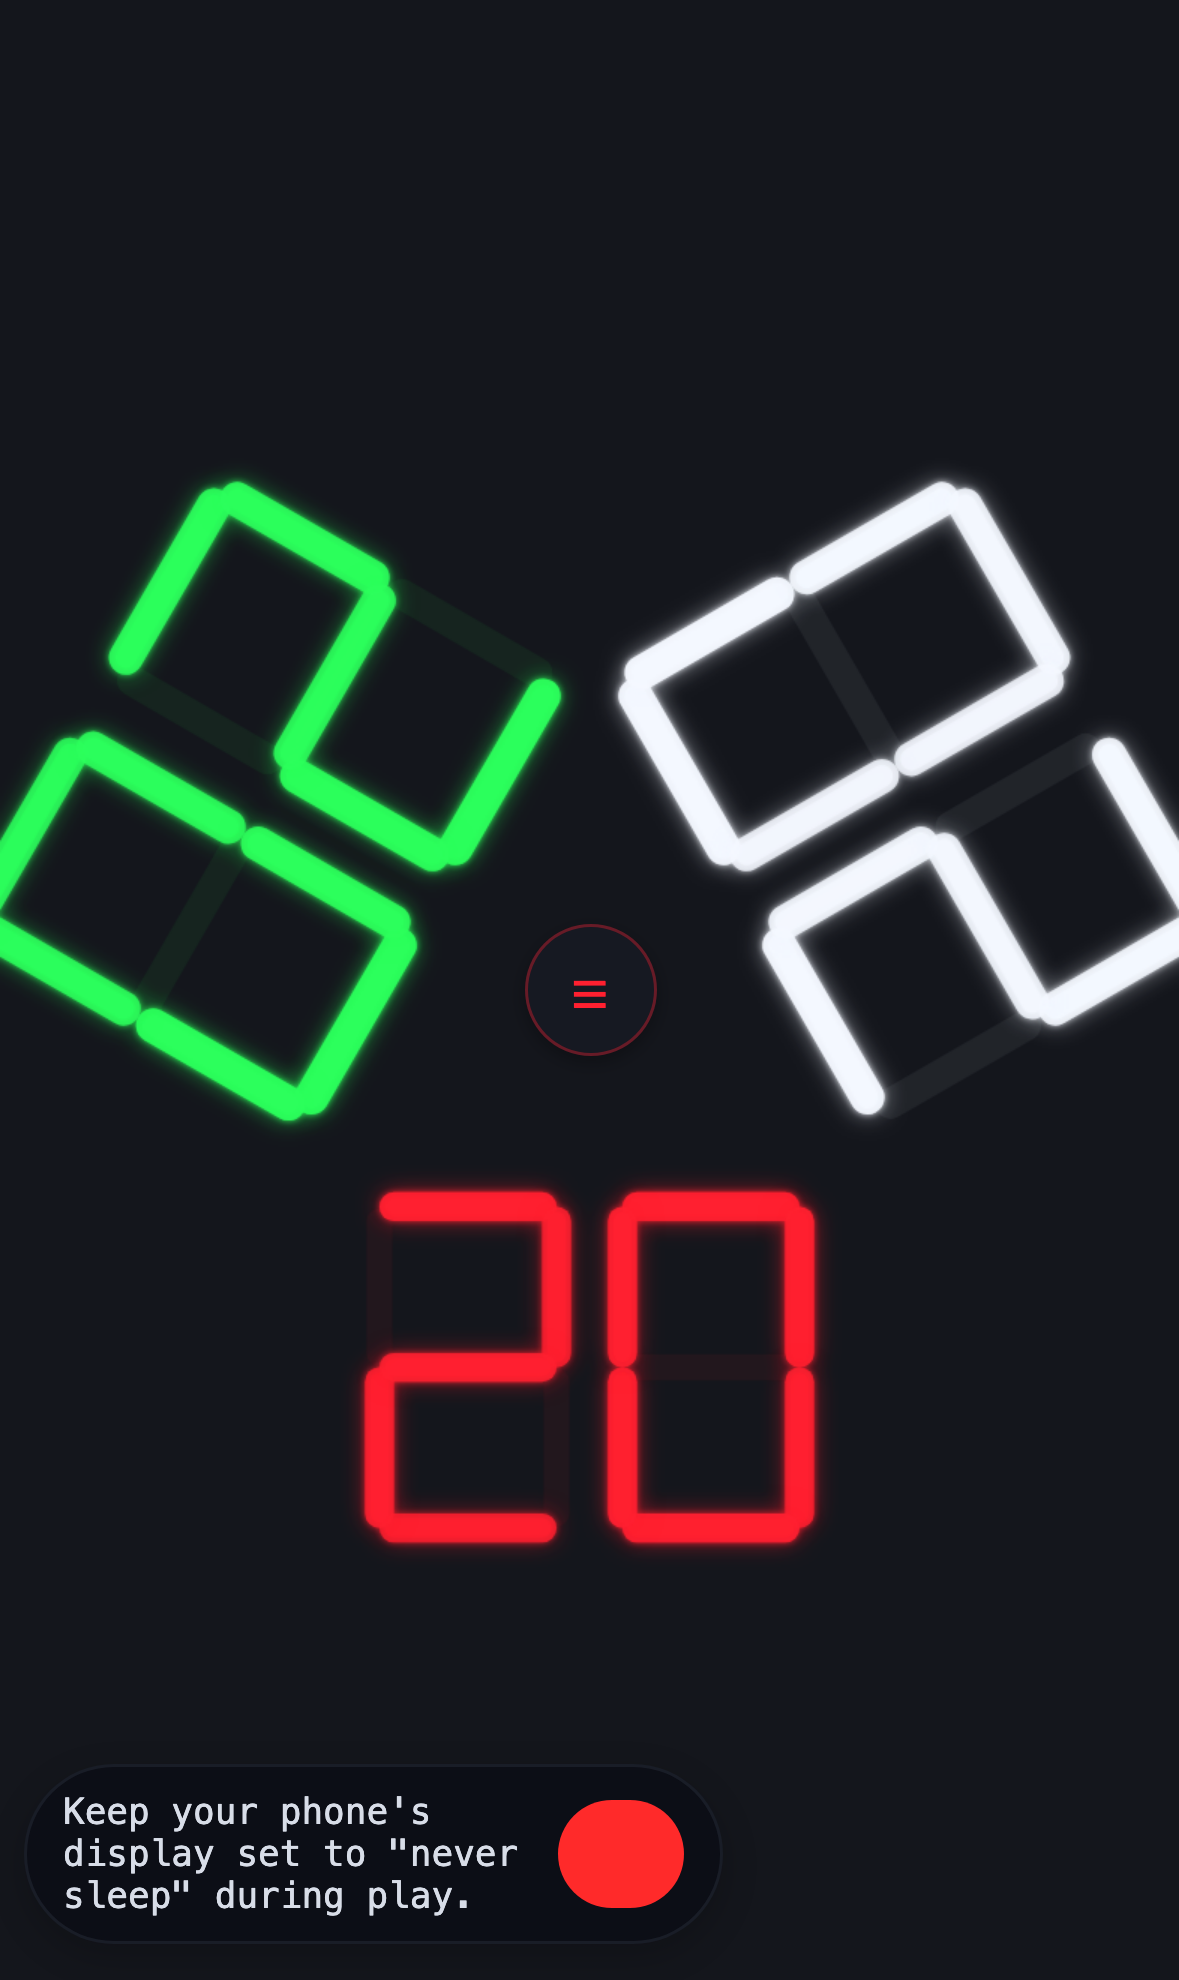
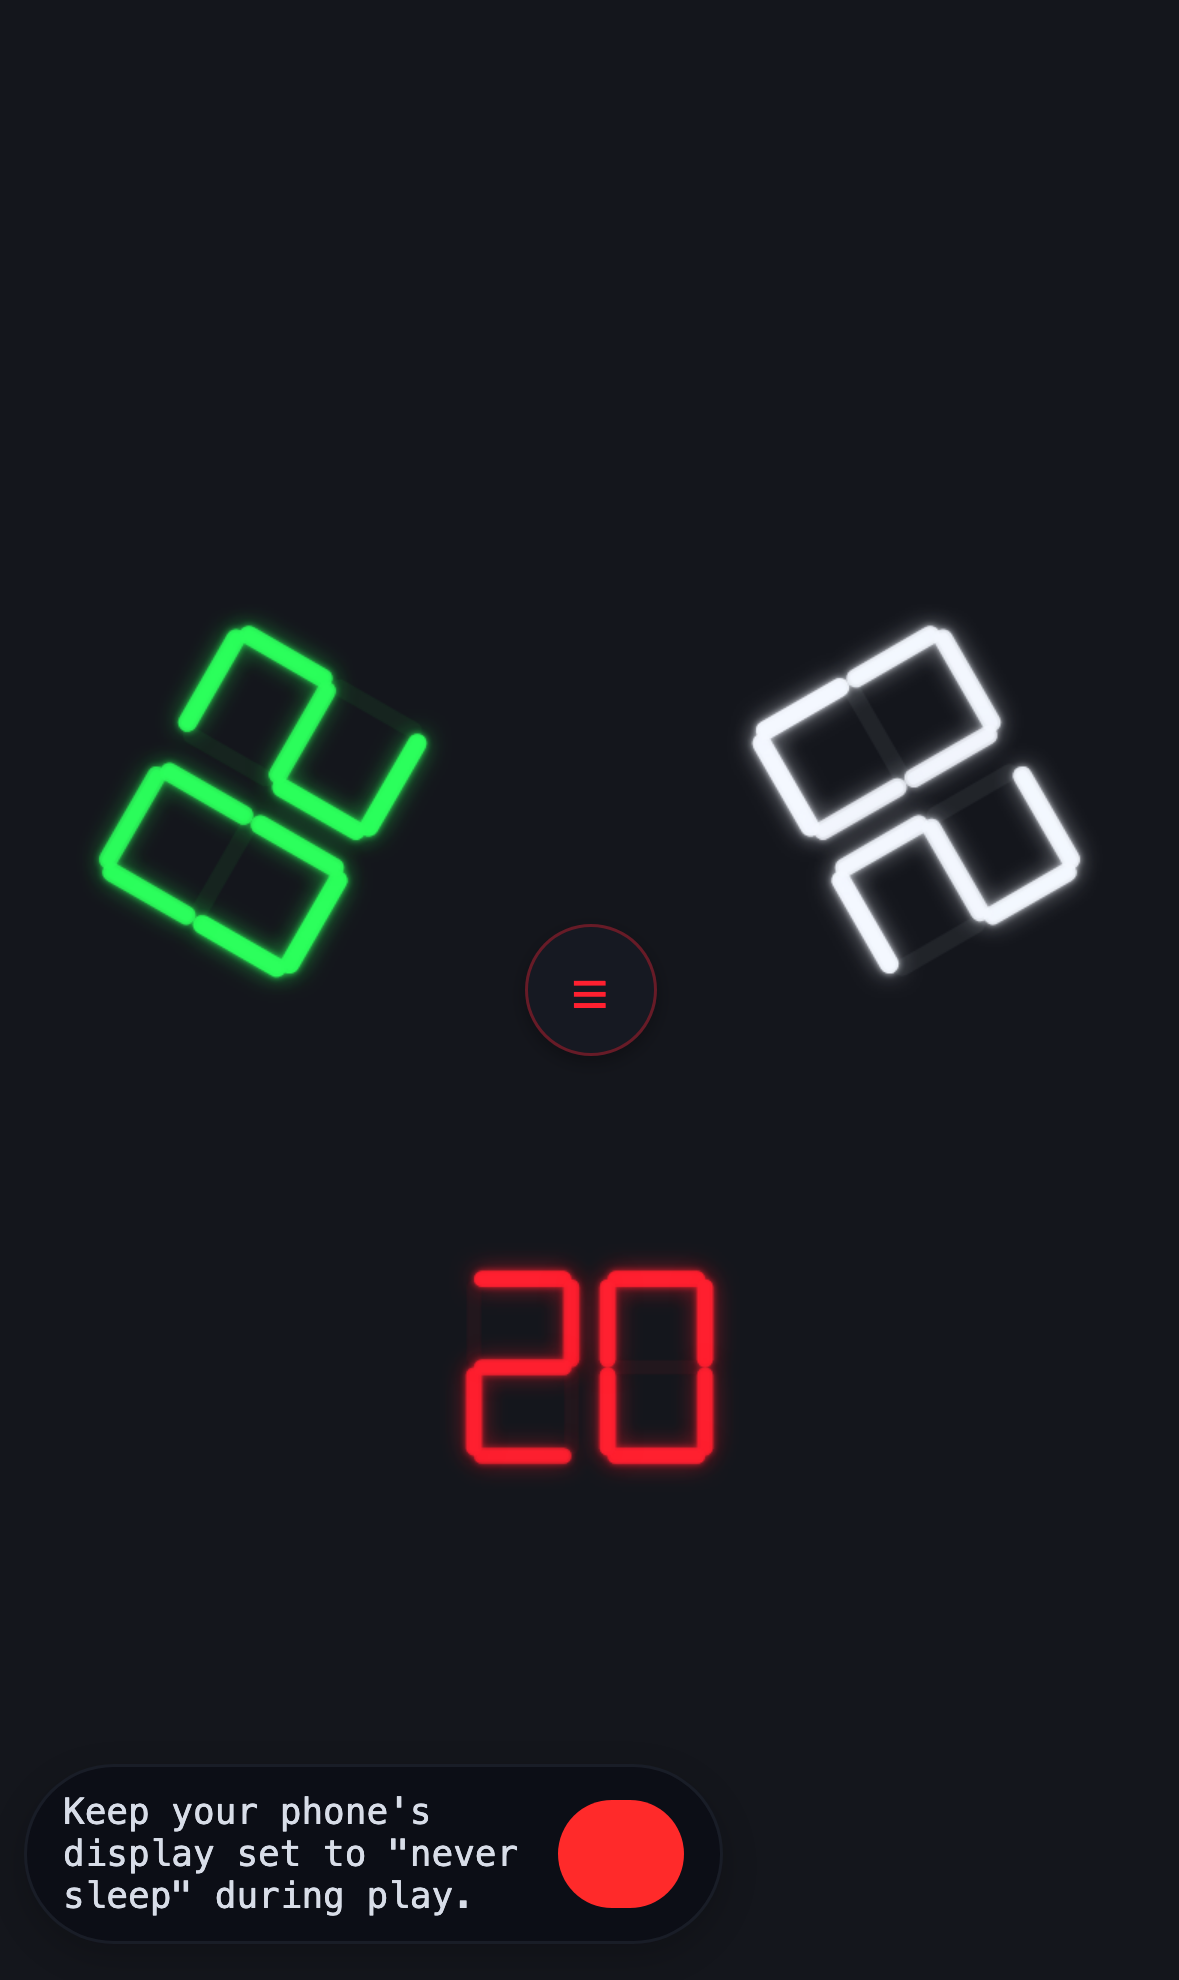
particles/7seg: SW network-first navigation + smaller 7-Seg digits
Two fixes:

1. SW cache-busting hole — navigation requests were CACHE-FIRST, so a
   stale browser kept being handed the old HTML even when the server
   had a fresh build with a new token. Switched navigations to
   NETWORK-FIRST with a 2-second timeout fallback to the cached
   document. Online clients always see the freshest HTML (cache
   refreshed in the background); offline / slow-network still gets the
   cached shell so the PWA boots in airplane mode. Cache-busted
   ?v=<token> assets stay cache-first via path 2 since the URL itself
   already changes per build — the navigation hole was the real
   source of staleness Gerald hit.

2. 7-Seg digits were too big — added DEFAULTS.digitScale (0.55)
   applied after the bbox-fit pass. Digits now sit smaller inside the
   available bbox, leaving room for the CRT bloom/halo without
   dominating the panel.

Verified Playwright iPhone-14-Pro: digits clearly smaller; zero
console errors.

Changed region(s): [[0.5191, 0.2157, 1.0, 0.5854], [0.0, 0.2157, 0.4885, 0.5854], [0.2748, 0.5854, 0.7023, 0.801]]

diff --git a/sw.js b/sw.js
@@ -1,4 +1,4 @@
-const CB_TOKEN = "47dc7fda";
+const CB_TOKEN = "01771b30";
 const CACHE_NAME = `lifecounter-${CB_TOKEN}`;
 
 const BADGE_CELLS = [0, 1, 2].map(i =>
@@ -82,20 +82,43 @@ self.addEventListener("fetch", (event) => {
   if (req.method !== "GET") return;
 
   event.respondWith((async () => {
-    // 1. Exact cache hit — fastest path, preserves cache-busting semantics
-    //    (different ?v= = different URL = different cache entry).
+    // 1. Navigation requests use NETWORK-FIRST with a 2s timeout.
+    //    Online users always get the freshest HTML (so a new build's token
+    //    propagates immediately), refilling the cache as a side-effect. Slow
+    //    or offline network → fall back to cached document so the PWA still
+    //    boots in airplane mode. Cache-busted ?v=<token> assets stay
+    //    cache-first via path (2) below since the URL itself changes per
+    //    build — the navigation cache hole was the real source of staleness.
+    if (req.mode === "navigate") {
+      try {
+        const fresh = await Promise.race([
+          fetch(req),
+          new Promise((_, reject) =>
+            setTimeout(() => reject(new Error("nav-timeout")), 2000)
+          ),
+        ]);
+        // Refresh cache in the background; don't block the response on it.
+        caches.open(CACHE_NAME).then((c) => c.put(req, fresh.clone())).catch(() => {});
+        return fresh;
+      } catch (e) {
+        const cached =
+          (await caches.match(req)) ||
+          (await caches.match("./?src=pwa")) ||
+          (await caches.match("./index.html")) ||
+          (await caches.match("./"));
+        if (cached) return cached;
+        return new Response("offline", {
+          status: 504,
+          statusText: "Gateway Timeout (offline)",
+          headers: { "Content-Type": "text/plain" },
+        });
+      }
+    }
+
+    // 2. Non-navigation: exact cache hit — fastest path, preserves cache-
+    //    busting semantics (different ?v= = different URL = different entry).
     let resp = await caches.match(req);
     if (resp) return resp;
-
-    // 2. Navigation request: fall back to a cached document so the app boots
-    //    even on an unfamiliar path or query (e.g. ?src=pwa not precached,
-    //    or a future start_url change).
-    if (req.mode === "navigate") {
-      resp = (await caches.match("./?src=pwa")) ||
-             (await caches.match("./index.html")) ||
-             (await caches.match("./"));
-      if (resp) return resp;
-    }
 
     // 3. Try network; if offline, fall back to a query-loose cache match so
     //    a stale build's assets still resolve.

diff --git a/index.html b/index.html
@@ -11,22 +11,22 @@
 
 <title>laifukeisan</title>
 
-<link rel="manifest" href="manifest.webmanifest?v=47dc7fda">
-<link rel="apple-touch-icon" href="icons/apple-touch-icon.png?v=47dc7fda">
+<link rel="manifest" href="manifest.webmanifest?v=01771b30">
+<link rel="apple-touch-icon" href="icons/apple-touch-icon.png?v=01771b30">
 
-<link rel="stylesheet" href="css/tokens.css?v=47dc7fda">
-<link rel="stylesheet" href="css/base.css?v=47dc7fda">
-<link rel="stylesheet" href="css/layout.css?v=47dc7fda">
-<link rel="stylesheet" href="css/skins.css?v=47dc7fda">
+<link rel="stylesheet" href="css/tokens.css?v=01771b30">
+<link rel="stylesheet" href="css/base.css?v=01771b30">
+<link rel="stylesheet" href="css/layout.css?v=01771b30">
+<link rel="stylesheet" href="css/skins.css?v=01771b30">
   <meta http-equiv="Cache-Control" content="no-cache, no-store, must-revalidate">
   <meta http-equiv="Pragma" content="no-cache">
   <meta http-equiv="Expires" content="0">
-  <meta name="cb" content="47dc7fda">
-  <link rel="icon" type="image/svg+xml" href="cb-shapes/07.svg?v=47dc7fda">
+  <meta name="cb" content="01771b30">
+  <link rel="icon" type="image/svg+xml" href="cb-shapes/01.svg?v=01771b30">
 </head>
 <body data-skin="pastel">
 <main id="board" aria-label="Life counters"></main>
 
-<script type="module" src="js/main.js?v=47dc7fda"></script>
+<script type="module" src="js/main.js?v=01771b30"></script>
 </body>
 </html>

diff --git a/js/sevenseg.js b/js/sevenseg.js
@@ -39,6 +39,7 @@ const DEFAULTS = {
   segmentThickness: 0.14,   // fraction of digit width
   digitAspect: 1.7,         // height / width — taller looks more retro
   digitGap: 0.18,           // gap between digits as fraction of digit width
+  digitScale: 0.55,         // scale applied after bbox-fit (smaller = neater)
   glowBlur: 16,             // shadow blur in CSS px for the outer halo
   innerGlowBlur: 4,
   ghostAlpha: 0.06,         // visibility of "off" segments
@@ -251,6 +252,10 @@ function loop() {
       digitHeight = p.bbox.height;
       digitWidth = digitHeight / DEFAULTS.digitAspect;
     }
+    // Apply the global digitScale so the digits sit smaller inside the
+    // available bbox — leaves room for the bloom/halo without dominating.
+    digitWidth *= DEFAULTS.digitScale;
+    digitHeight *= DEFAULTS.digitScale;
     const gapPx = digitWidth * gapFactor;
     const totalWidth = n * digitWidth + (n - 1) * gapPx;
 
